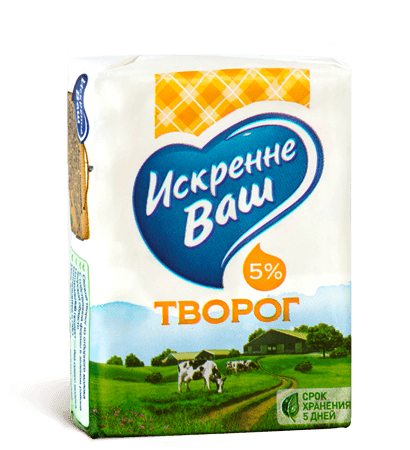
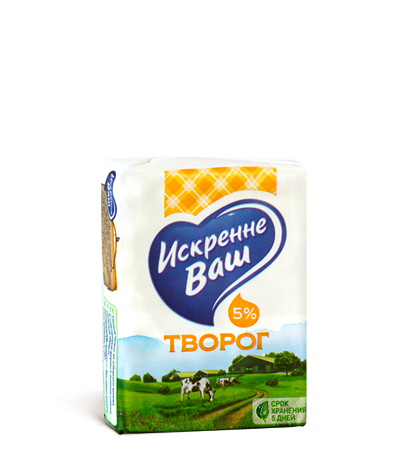
Edits

diff --git a/_html/product-milk.html b/_html/product-milk.html
@@ -77,7 +77,7 @@
                                 </dl>
                                 <dl class="product-spec__col">
                                     <dt class="product-spec__dt">Условия хранения</dt>
-                                    <dt class="product-spec__dd">5 суток при t 0 &plus;4 &deg;C</dt>
+                                    <dt class="product-spec__dd">7 суток при t 0 &plus;4 &deg;C</dt>
                                 </dl>
                             </div>
                             <div class="product-spec__item js-product-spec-item" data-spec="2">
@@ -91,7 +91,7 @@
                                 </dl>
                                 <dl class="product-spec__col">
                                     <dt class="product-spec__dt">Условия хранения</dt>
-                                    <dt class="product-spec__dd">5 суток при t 4 &plusmn;2 &deg;C</dt>
+                                    <dt class="product-spec__dd">7 суток при t 4 &plusmn;2 &deg;C</dt>
                                 </dl>
                             </div>
                             <div class="product-spec__item js-product-spec-item" data-spec="3">
@@ -105,7 +105,7 @@
                                 </dl>
                                 <dl class="product-spec__col">
                                     <dt class="product-spec__dt">Условия хранения</dt>
-                                    <dt class="product-spec__dd">5 суток при t 4 &plusmn;2 &deg;C</dt>
+                                    <dt class="product-spec__dd">7 суток при t 4 &plusmn;2 &deg;C</dt>
                                 </dl>
                             </div>
                         </div>

diff --git a/sass/pages/_start.sass b/sass/pages/_start.sass
@@ -18,8 +18,6 @@
         background: transparent no-repeat center/cover
 
 .start-table
-    transform: translate(0, 6rem) 
-
     &__layer
         position: relative !important
 
@@ -68,9 +66,9 @@
 
     .start-table__image
         +min-screen-wh($mqMiddle, $mqHMiddle)
-            width: 58.7rem
+            width: 54.4rem
         +min-screen-wh($mqWide, $mqHHigh)
-            width: 73.4rem
+            width: 65rem
 
     .desc-box
         width: 45rem
